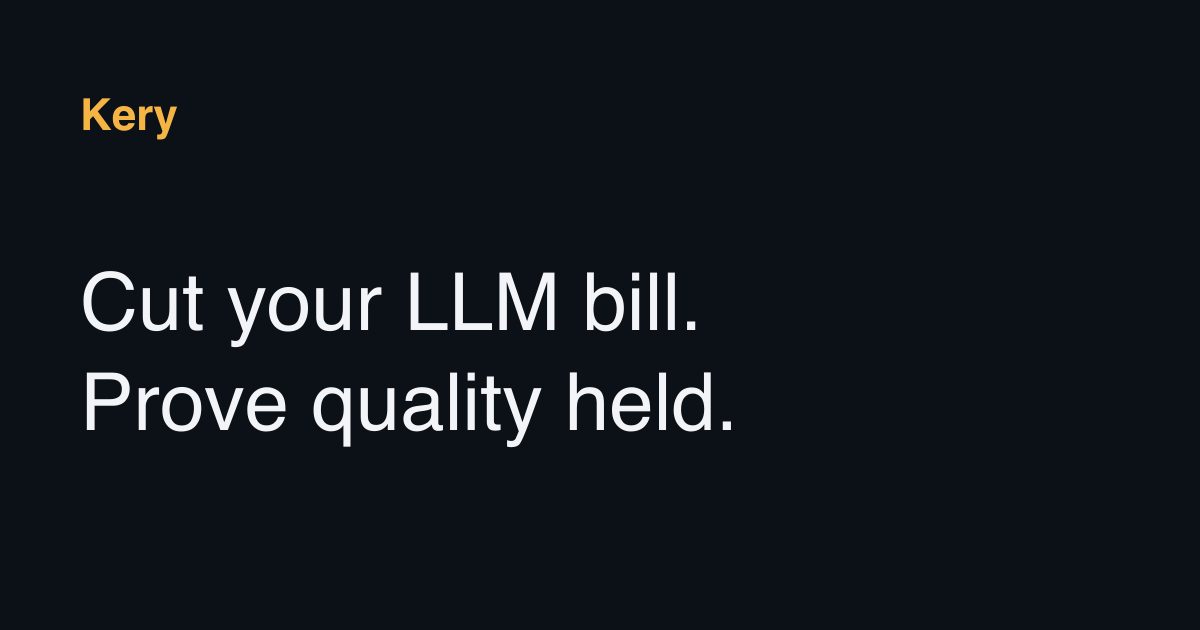
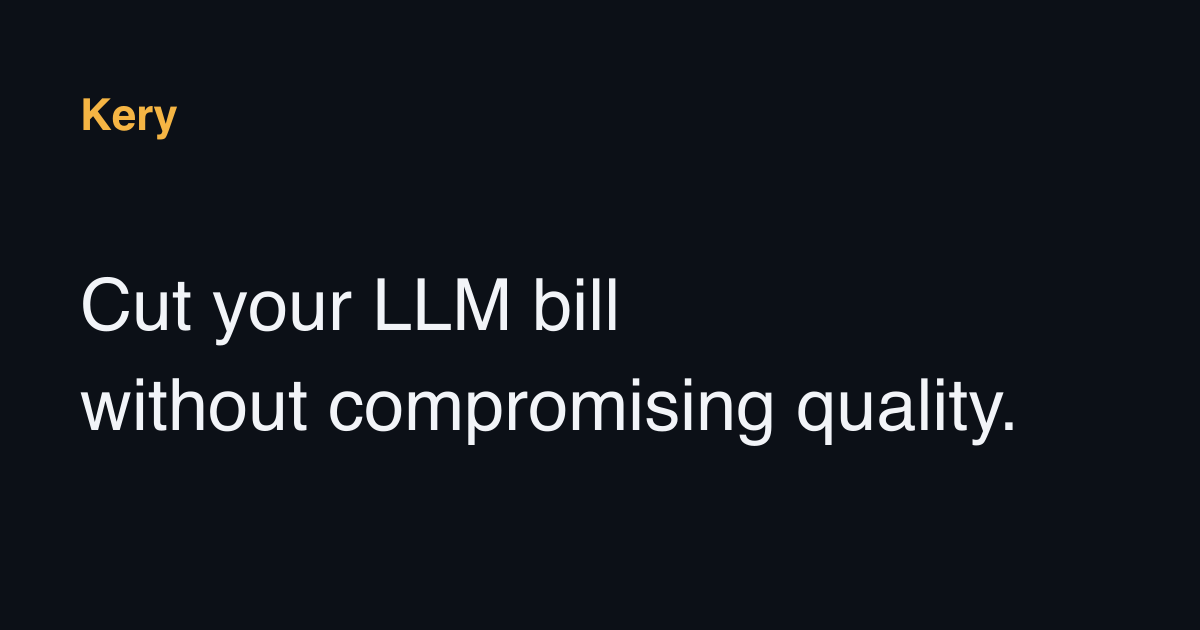
Change headline to 'without compromising quality'

Changed region(s): [[0.0617, 0.573, 0.8325, 0.7238], [0.0617, 0.4222, 0.5858, 0.573]]

diff --git a/src/config/site.ts b/src/config/site.ts
@@ -9,13 +9,13 @@ export const SITE_NAME = 'Kery';
 export const SITE_ORIGIN = 'https://kery.dev';
 
 export const seo = {
-  title: 'Kery — Cut your LLM costs, prove quality held',
+  title: 'Kery — Cut your LLM bill without compromising quality',
   description:
     'Kery finds where your AI spend is wasted, tests cheaper options on your real traffic, and ships the fixes as pull requests. Book a free cost audit.',
 };
 
 export const hero = {
-  headline: 'Cut your LLM bill. Prove quality held.',
+  headline: 'Cut your LLM bill without compromising quality.',
   subhead:
     'We find where your AI spend is wasted, test cheaper options on your real traffic, and ship the fixes as pull requests.',
   primaryCta: 'Book a free cost audit',

diff --git a/src/components/sections/Hero.tsx b/src/components/sections/Hero.tsx
@@ -10,7 +10,7 @@ export default function Hero() {
       </div>
       <div className="relative mx-auto max-w-6xl px-4 pt-20 pb-64 sm:pt-28 sm:pb-72">
         <div className="mx-auto max-w-4xl text-center">
-          <h1 className="text-5xl leading-none sm:text-7xl lg:text-8xl">{hero.headline}</h1>
+          <h1 className="text-5xl leading-none sm:text-7xl">{hero.headline}</h1>
           <p className="mx-auto mt-6 max-w-2xl text-lg text-muted-foreground sm:text-xl">{hero.subhead}</p>
           <div className="mt-8 flex flex-col justify-center gap-3 sm:flex-row sm:items-center">
             <Button asChild size="lg">
